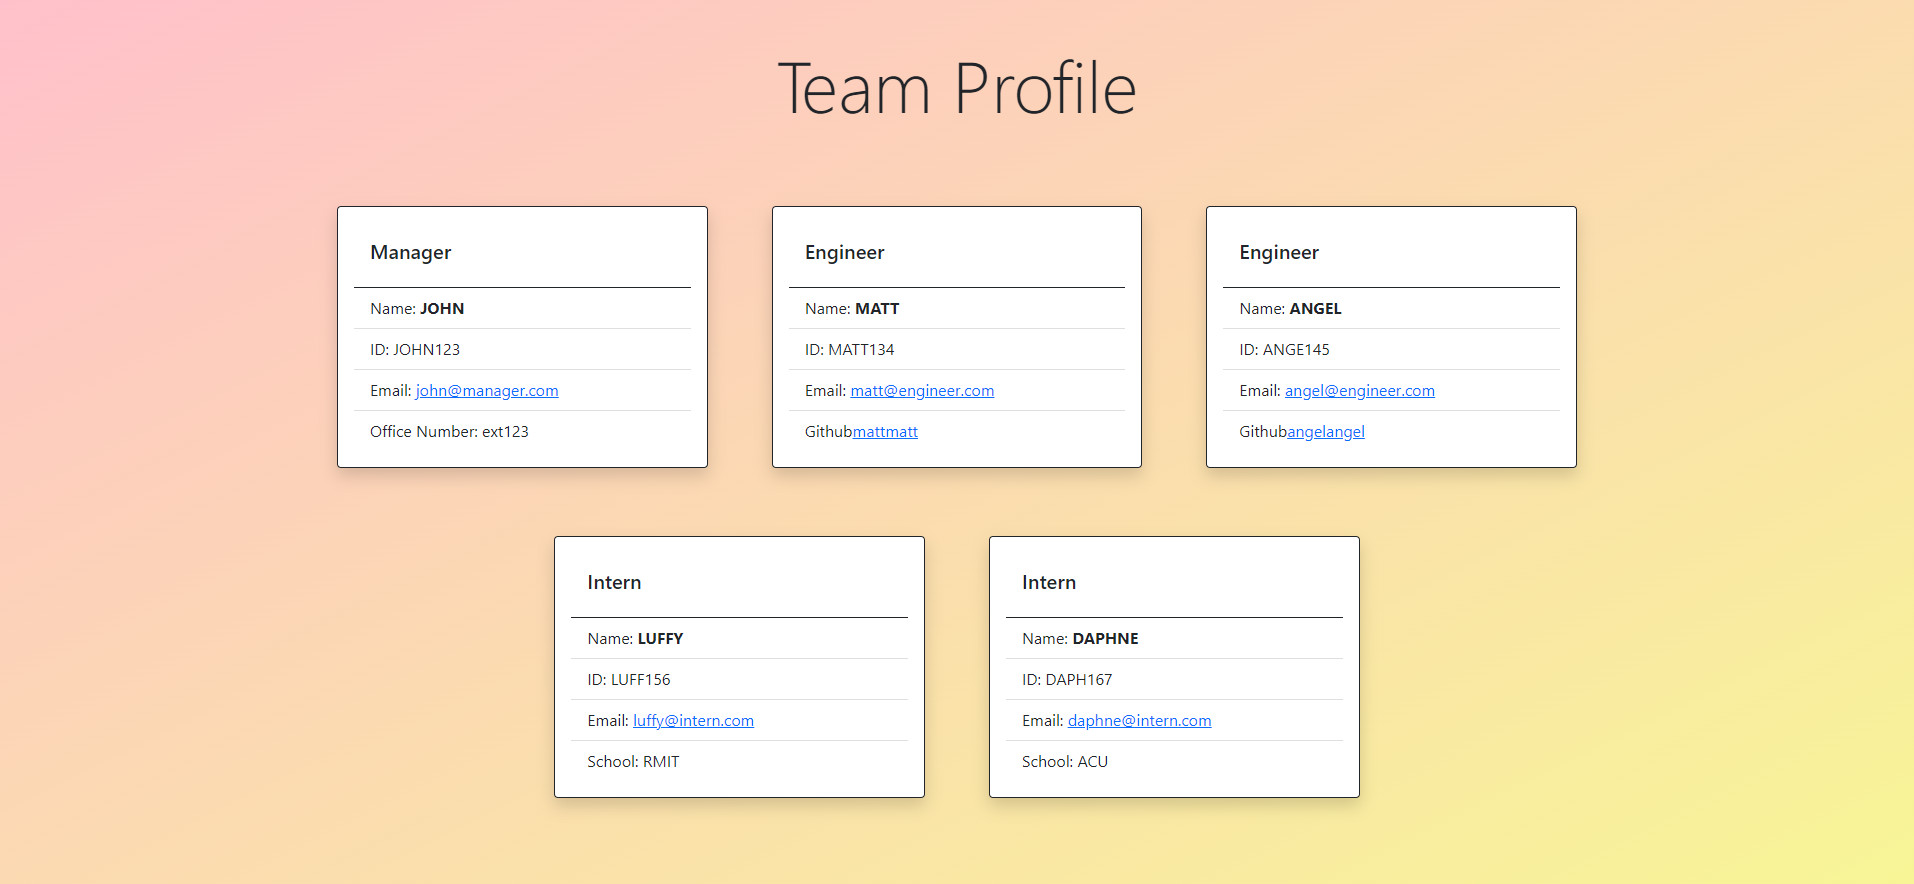
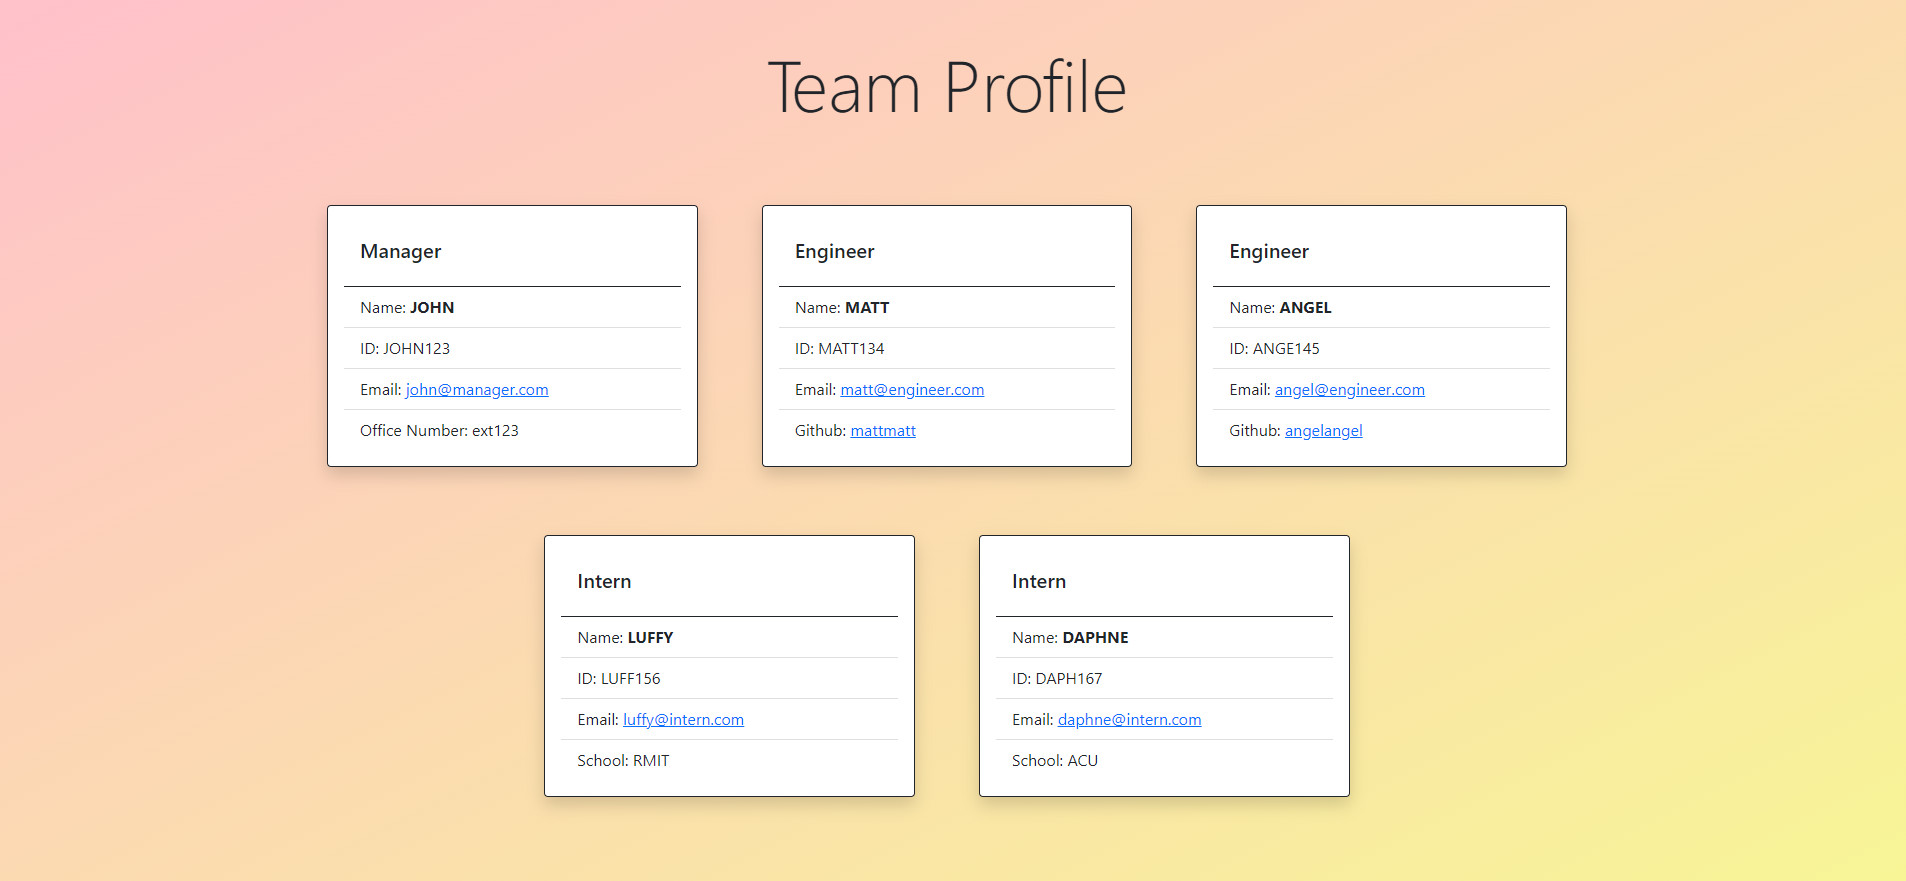
update image

diff --git a/dist/indexSAMPLE.html b/dist/indexSAMPLE.html
@@ -1,93 +1,128 @@
+<!DOCTYPE html>
+<html lang="en">
+  <head>
+    <meta charset="UTF-8" />
+    <meta name="viewport" content="width=device-width, initial-scale=1.0" />
+    <title>Team Profile</title>
+    <link
+      href="https://cdn.jsdelivr.net/npm/bootstrap@5.1.3/dist/css/bootstrap.min.css"
+      rel="stylesheet"
+      integrity="sha384-1BmE4kWBq78iYhFldvKuhfTAU6auU8tT94WrHftjDbrCEXSU1oBoqyl2QvZ6jIW3"
+      crossorigin="anonymous"
+    />
+    <link rel="stylesheet" href="./style.css" />
+  </head>
 
-  <!DOCTYPE html>
-  <html lang="en">
-    <head>
-      <meta charset="UTF-8" />
-      <meta name="viewport" content="width=device-width, initial-scale=1.0" />
-      <title>Team Profile</title>
-      <link
-        href="https://cdn.jsdelivr.net/npm/bootstrap@5.1.3/dist/css/bootstrap.min.css"
-        rel="stylesheet"
-        integrity="sha384-1BmE4kWBq78iYhFldvKuhfTAU6auU8tT94WrHftjDbrCEXSU1oBoqyl2QvZ6jIW3"
-        crossorigin="anonymous"
-      />
-      <link rel="stylesheet" href="./style.css" />
-    </head>
-  
-    <body>
-      <header>
-        <h1 class="display-2 text-center mt-5">Team Profile</h1>
-      </header>
-  
-      <main>
-        <section class="container results">
-          <div class="d-flex flex-wrap row justify-content-center">
+  <body>
+    <header>
+      <h1 class="display-2 text-center mt-5">Team Profile</h1>
+    </header>
+
+    <main>
+      <section class="container results">
+        <div class="d-flex flex-wrap row justify-content-center">
           <div class="col-4">
-          <div class="card border-dark shadow p-3 mb-5 bg-body rounded">
-            <div class="card-body">
-              <h5 class="card-title">Manager</h5>
+            <div class="card border-dark shadow p-3 mb-5 bg-body rounded">
+              <div class="card-body">
+                <h5 class="card-title">Manager</h5>
+              </div>
+              <ul class="list-group list-group-flush">
+                <li class="list-group-item">Name:<b> JOHN</b></li>
+                <li class="list-group-item">ID: JOHN123</li>
+                <li class="list-group-item">
+                  Email:
+                  <a href="mailto::john@manager.com" target="_blank"
+                    >john@manager.com</a
+                  >
+                </li>
+                <li class="list-group-item">Office Number: ext123</li>
+              </ul>
             </div>
-            <ul class="list-group list-group-flush">
-              <li class="list-group-item">Name:<b> JOHN</b></li>
-              <li class="list-group-item">ID: JOHN123</li>
-              <li class="list-group-item">Email: <a href="mailto::john@manager.com" target="_blank">john@manager.com</a></li>
-              <li class="list-group-item">Office Number: ext123</li>
-            </ul>
           </div>
-        </div><div class="col-4">
-          <div class="card border-dark shadow p-3 mb-5 bg-body rounded">
-            <div class="card-body">
-              <h5 class="card-title">Engineer</h5>
+          <div class="col-4">
+            <div class="card border-dark shadow p-3 mb-5 bg-body rounded">
+              <div class="card-body">
+                <h5 class="card-title">Engineer</h5>
+              </div>
+              <ul class="list-group list-group-flush">
+                <li class="list-group-item">Name:<b> MATT</b></li>
+                <li class="list-group-item">ID: MATT134</li>
+                <li class="list-group-item">
+                  Email:
+                  <a href="mailto::matt@engineer.com" target="_blank"
+                    >matt@engineer.com</a
+                  >
+                </li>
+                <li class="list-group-item">
+                  Github:
+                  <a href="https://github.com/mattmatt" target="_blank"
+                    >mattmatt</a
+                  >
+                </li>
+              </ul>
             </div>
-            <ul class="list-group list-group-flush">
-              <li class="list-group-item">Name:<b> MATT</b></li>
-              <li class="list-group-item">ID: MATT134</li>
-              <li class="list-group-item">Email: <a href="mailto::matt@engineer.com" target="_blank">matt@engineer.com</a></li>
-              <li class="list-group-item">Github<a href="https://github.com/mattmatt" target="_blank">mattmatt</a></li>
-            </ul>
+          </div>
+          <div class="col-4">
+            <div class="card border-dark shadow p-3 mb-5 bg-body rounded">
+              <div class="card-body">
+                <h5 class="card-title">Engineer</h5>
+              </div>
+              <ul class="list-group list-group-flush">
+                <li class="list-group-item">Name:<b> ANGEL</b></li>
+                <li class="list-group-item">ID: ANGE145</li>
+                <li class="list-group-item">
+                  Email:
+                  <a href="mailto::angel@engineer.com" target="_blank"
+                    >angel@engineer.com</a
+                  >
+                </li>
+                <li class="list-group-item">
+                  Github:
+                  <a href="https://github.com/angelangel" target="_blank"
+                    >angelangel</a
+                  >
+                </li>
+              </ul>
+            </div>
+          </div>
+          <div class="col-4">
+            <div class="card border-dark shadow p-3 mb-5 bg-body rounded">
+              <div class="card-body">
+                <h5 class="card-title">Intern</h5>
+              </div>
+              <ul class="list-group list-group-flush">
+                <li class="list-group-item">Name:<b> LUFFY</b></li>
+                <li class="list-group-item">ID: LUFF156</li>
+                <li class="list-group-item">
+                  Email:
+                  <a href="mailto::luffy@intern.com" target="_blank"
+                    >luffy@intern.com</a
+                  >
+                </li>
+                <li class="list-group-item">School: RMIT</li>
+              </ul>
+            </div>
+          </div>
+          <div class="col-4">
+            <div class="card border-dark shadow p-3 mb-5 bg-body rounded">
+              <div class="card-body">
+                <h5 class="card-title">Intern</h5>
+              </div>
+              <ul class="list-group list-group-flush">
+                <li class="list-group-item">Name:<b> DAPHNE</b></li>
+                <li class="list-group-item">ID: DAPH167</li>
+                <li class="list-group-item">
+                  Email:
+                  <a href="mailto::daphne@intern.com" target="_blank"
+                    >daphne@intern.com</a
+                  >
+                </li>
+                <li class="list-group-item">School: ACU</li>
+              </ul>
+            </div>
           </div>
         </div>
-          <div class="col-4">
-          <div class="card border-dark shadow p-3 mb-5 bg-body rounded">
-            <div class="card-body">
-              <h5 class="card-title">Engineer</h5>
-            </div>
-            <ul class="list-group list-group-flush">
-              <li class="list-group-item">Name:<b> ANGEL</b></li>
-              <li class="list-group-item">ID: ANGE145</li>
-              <li class="list-group-item">Email: <a href="mailto::angel@engineer.com" target="_blank">angel@engineer.com</a></li>
-              <li class="list-group-item">Github<a href="https://github.com/angelangel" target="_blank">angelangel</a></li>
-            </ul>
-          </div>
-        </div>
-          <div class="col-4">
-          <div class="card border-dark shadow p-3 mb-5 bg-body rounded">
-            <div class="card-body">
-              <h5 class="card-title">Intern</h5>
-            </div>
-            <ul class="list-group list-group-flush">
-              <li class="list-group-item">Name:<b> LUFFY</b></li>
-              <li class="list-group-item">ID: LUFF156</li>
-              <li class="list-group-item">Email: <a href="mailto::luffy@intern.com" target="_blank">luffy@intern.com</a></li>
-              <li class="list-group-item">School: RMIT</li>
-            </ul>
-          </div>
-        </div><div class="col-4">
-          <div class="card border-dark shadow p-3 mb-5 bg-body rounded">
-            <div class="card-body">
-              <h5 class="card-title">Intern</h5>
-            </div>
-            <ul class="list-group list-group-flush">
-              <li class="list-group-item">Name:<b> DAPHNE</b></li>
-              <li class="list-group-item">ID: DAPH167</li>
-              <li class="list-group-item">Email: <a href="mailto::daphne@intern.com" target="_blank">daphne@intern.com</a></li>
-              <li class="list-group-item">School: ACU</li>
-            </ul>
-          </div>
-        </div>
-          </div>
       </section>
     </main>
   </body>
 </html>
-    

diff --git a/README.md b/README.md
@@ -45,6 +45,8 @@ Run the following prompt in terminal to initiate questions:
 node index.js
 ```
 
+Once all questions are answered and no other team members are required to be added, HTML file will be added into the dist folder.
+
 ![Demonstration of ](./images/htmlpage.gif)
 
 ## Questions
